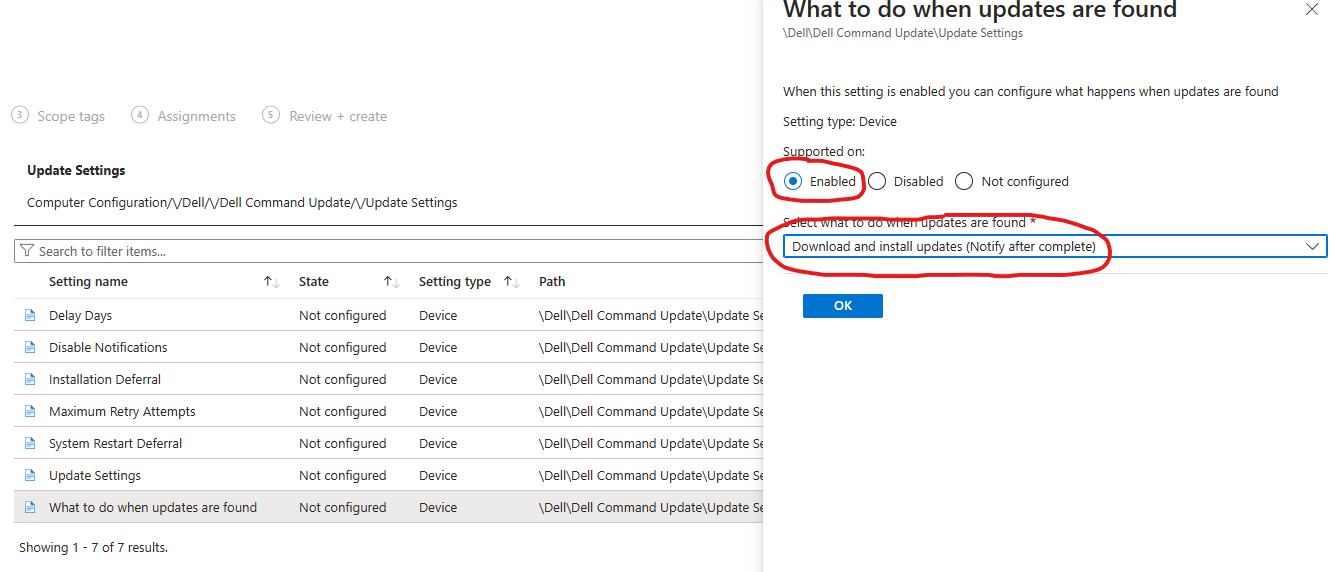
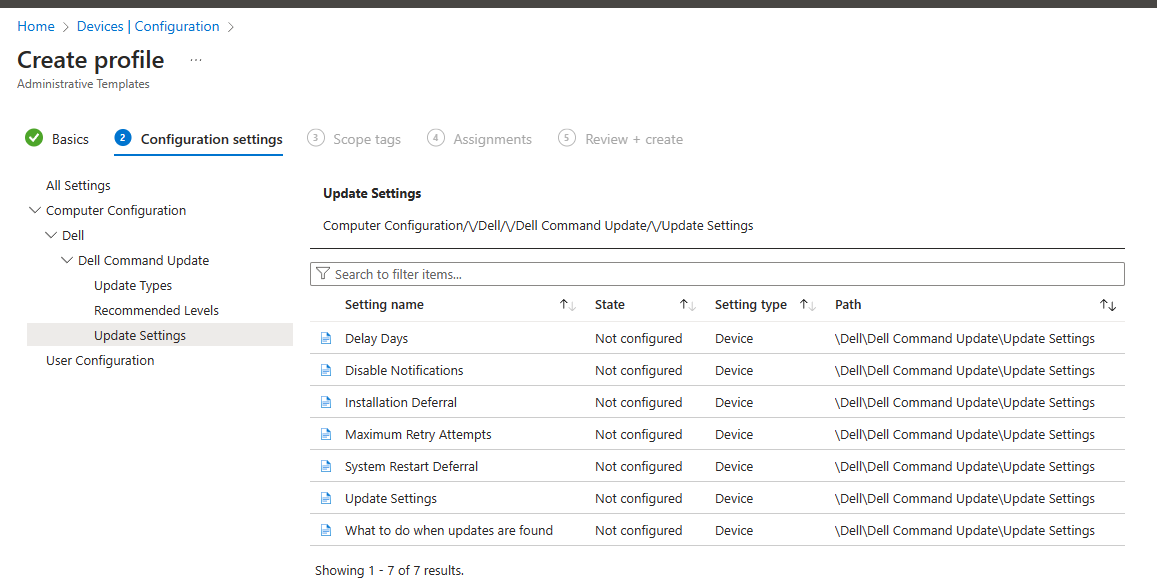
policy changes

diff --git a/_drafts/2024-04-08-UpdateDriversBIOS-DellCommandUpdate.md b/_drafts/2024-04-08-UpdateDriversBIOS-DellCommandUpdate.md
@@ -26,18 +26,31 @@ In case you don't have Dell Command | Update in Intune as a Win32 app, you can s
 
 Set return code 2 as "Success" as well, to ensure it doesn't fail during ESP when deploying devices with autopilot.
 
-![DellBIOS](/assets/images/XXXX-XX-XX-Randomize-BIOSPasswords-Dell/CreateConfigurationProfile-1.png?raw=true "BIOS Configuration Intune")
+![DellDCUAPP](/assets/images/2024-04-08-DellBIOSUpdates-Intune/DellCommandUpdate-App-1.png?raw=true "Dell Command | Update app")
 
 ## Importing ADMX Templates
 To get the ADMX templates you will need to download Dell Command Update. You can always find the latest version here: https://www.dell.com/support/kbdoc/en-us/000177325/dell-command-update
 
-Once you have it downloaded, open it and click extract. Extract to a folder of your choice. Navigate to the extracted folder and find the "Templates" folder. That would be your admx templates we need to import into intune now. Head on over to Intune -> Devices -> Configuration. Then click "Import ADMX" in the top. 
+Once you have it downloaded, open it and click extract. Extract to a folder of your choice. 
+![DellDCUAPP](/assets/images/2024-04-08-DellBIOSUpdates-Intune/DellCommandUpdate-2.png?raw=true "Dell Command | Update ADMX Templates")
 
-Start by importing the Dell.ADMX file. For the .ADML file, you can find it under the subfolder en-US. Then hit next and create. Wait 1-2 minutes, then hit "Refresh". The Dell template should be "Available" (Sometimes it can be a bit sluggish, so be patient with this one). Once the Dell template is available, import the Dell Command Update.ADMX and ADML file similarly. Once finished, it should look something like this:
+Navigate to the extracted folder and find the "Templates" folder. That would be your admx templates we need to import into intune now. Head on over to Intune -> Devices -> Configuration. Then click "Import ADMX" in the top. 
+![DellDCUAPP](/assets/images/2024-04-08-DellBIOSUpdates-Intune/ImportADMX-1.png?raw=true "Dell Command | Update ADMX Templates")
+![DellDCUAPP](/assets/images/2024-04-08-DellBIOSUpdates-Intune/ImportADMX-2.png?raw=true "Dell Command | Update ADMX Templates")
+![DellDCUAPP](/assets/images/2024-04-08-DellBIOSUpdates-Intune/ImportADMX-3.png?raw=true "Dell Command | Update ADMX Templates")
+
+Start by importing the Dell.ADMX file. For the .ADML file, you can find it under the subfolder en-US. Then hit next and create. Wait 1-2 minutes, then hit "Refresh". 
+![DellDCUAPP](/assets/images/2024-04-08-DellBIOSUpdates-Intune/ImportADMX-6.png?raw=true "Dell Command | Update ADMX Templates")
+
+
+The Dell template should be "Available" (Sometimes it can be a bit sluggish, so be patient with this one). Once the Dell template is available, import the Dell Command Update.ADMX and ADML file similarly. Once finished, you should see "Dell.ADMX" and "Dell Command Update.ADMX":
+![DellDCUAPP](/assets/images/2024-04-08-DellBIOSUpdates-Intune/ImportADMX-7.png?raw=true "Dell Command | Update ADMX Templates")
 
 
 ## Deploying update policies
 Let's go and create a new configuration profile. Select "Windows 10 and later" -> Templates -> Imported administratives templates (preview). Let's give the policy a nice name like "Dell Command Update Settings". Then hit next. Then you should be able to see the Dell folder with all the Dell Command | Update settings.
+![DellDCUAPP](/assets/images/2024-04-08-DellBIOSUpdates-Intune/DeployPolicy-1.png?raw=true "Dell Command | Update ADMX Templates")
+
 
 All the settings we are looking for, is placed under the folder "Update Settings". Lets configure our Dell Command | Update Policy to adjust the following:
 1. **"What do when updates are found":** Set this to "Enabled" and to "Download and install updates (Notify after complete)
